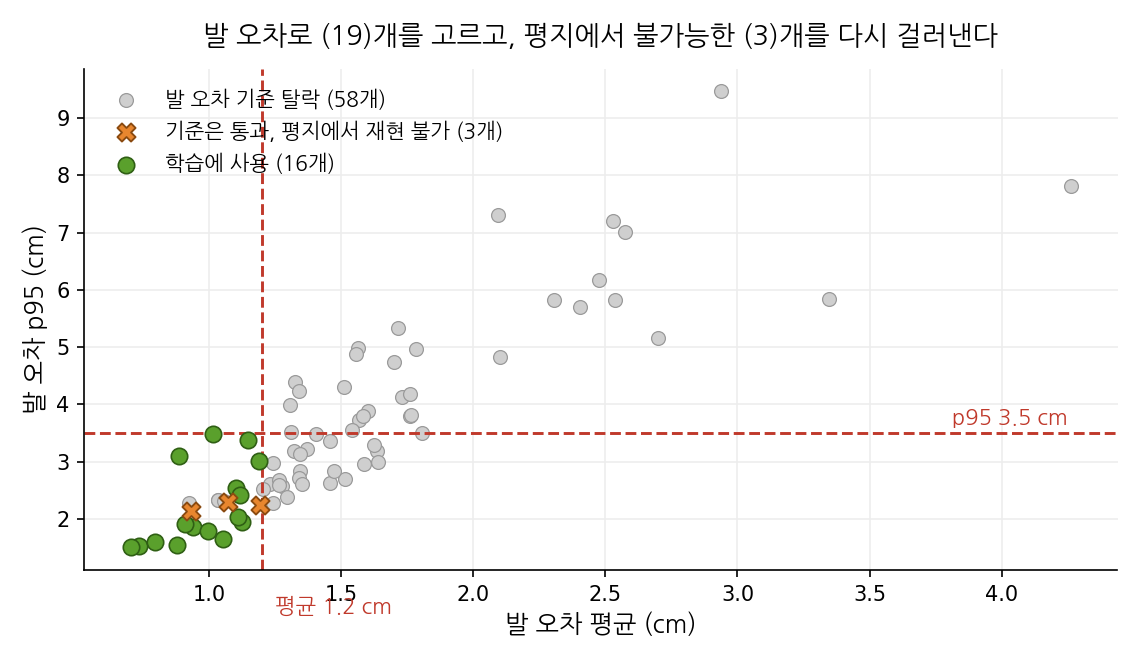
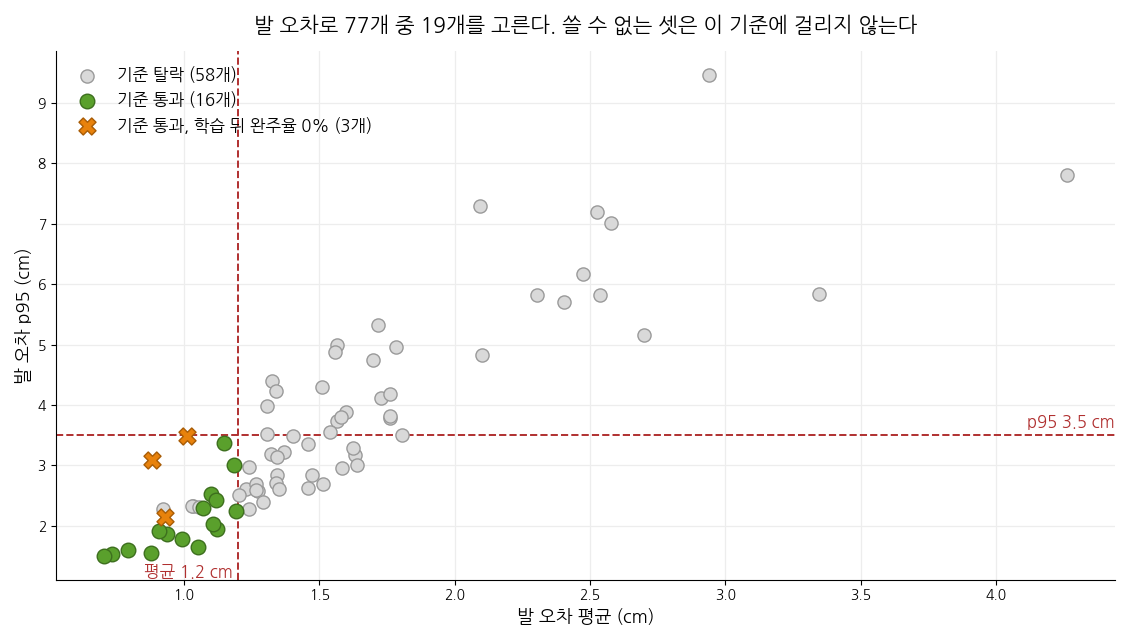
Show the selection criterion missing what it missed
The stage 3 figure titled itself "pick 19 by foot error, then filter out the 3
that are impossible on flat ground", and coloured those three as though the
criterion had rejected them. It did not reject them; they passed, were trained,
and only their zero completion rate gave them away. Drawn that way the figure
hid the one thing worth knowing about the filter.

They are now marked as what they are, sequences that passed and later completed
nothing, and they sit inside the passing cloud, which is the point: foot error
does not separate them. Ground penetration and airborne fraction do, and the
criterion looked at neither.

No generator for this figure existed, so it is added rather than hand-edited,
and it reads the same quality.csv that produced the selection.

diff --git a/scripts/make_stage3_figure.py b/scripts/make_stage3_figure.py
@@ -1,0 +1,80 @@
+"""3단계 그림을 그린다. 선별 기준이 무엇을 걸러내고 무엇을 놓쳤는지 보인다.
+
+    python scripts/make_stage3_figure.py --out docs/stage_3.png
+
+outputs/metrics/quality.csv 의 발 오차로 77개를 세 무리로 나눈다. 기준을
+통과한 19개 중 셋은 나중에 완주율 0% 로 드러났다. 그 셋을 따로 칠하는 이유는
+발 오차만으로는 다른 통과분과 구분되지 않기 때문이다 — 기준의 맹점이 그림에
+남아야 한다.
+"""
+
+import argparse
+import csv
+import os
+
+import matplotlib
+
+matplotlib.use("Agg")
+import matplotlib.font_manager as fm
+import matplotlib.pyplot as plt
+
+FONT = "/usr/share/fonts/truetype/nanum/NanumGothic.ttf"
+MEAN_MAX, P95_MAX, MAX_MAX = 1.2, 3.5, 10.0
+
+# 기준은 통과했지만 학습 뒤 완주율이 0% 였던 셋. 지면 관통과 공중 비율 때문이고
+# 선별 기준은 그 둘을 보지 않았다.
+UNUSABLE = {"obstacles2_subject1", "walk3_subject1", "walk3_subject4"}
+
+ROOT = os.path.dirname(os.path.dirname(os.path.abspath(__file__)))
+
+
+def main(csv_path, out):
+    fm.fontManager.addfont(FONT)
+    plt.rcParams["font.family"] = fm.FontProperties(fname=FONT).get_name()
+
+    rows = list(csv.DictReader(open(csv_path)))
+    passed, failed, bad = [], [], []
+    for r in rows:
+        pt = (float(r["feet_mean"]), float(r["feet_p95"]))
+        if (pt[0] < MEAN_MAX and pt[1] < P95_MAX and float(r["feet_max"]) < MAX_MAX):
+            (bad if r["seq"] in UNUSABLE else passed).append(pt)
+        else:
+            failed.append(pt)
+
+    fig, ax = plt.subplots(figsize=(11.3, 6.4), dpi=100)
+    for pts, color, edge, marker, size, label in [
+        (failed, "#d9d9d9", "#9a9a9a", "o", 90, f"기준 탈락 ({len(failed)}개)"),
+        (passed, "#5aa02c", "#3d6f1e", "o", 110, f"기준 통과 ({len(passed)}개)"),
+        (bad, "#e8820c", "#a85c05", "X", 150, f"기준 통과, 학습 뒤 완주율 0% ({len(bad)}개)"),
+    ]:
+        ax.scatter([p[0] for p in pts], [p[1] for p in pts], s=size, c=color,
+                   edgecolors=edge, linewidths=1.0, marker=marker, label=label, zorder=3)
+
+    ax.axvline(MEAN_MAX, color="#b03030", linestyle="--", linewidth=1.4, zorder=2)
+    ax.axhline(P95_MAX, color="#b03030", linestyle="--", linewidth=1.4, zorder=2)
+    ax.text(MEAN_MAX - 0.02, ax.get_ylim()[0], f"평균 {MEAN_MAX} cm", color="#b03030",
+            fontsize=12, ha="right", va="bottom")
+    ax.text(ax.get_xlim()[1], P95_MAX + 0.08, f"p95 {P95_MAX} cm", color="#b03030",
+            fontsize=12, ha="right", va="bottom")
+
+    ax.set_title("발 오차로 77개 중 19개를 고른다. 쓸 수 없는 셋은 이 기준에 걸리지 않는다",
+                 fontsize=15, pad=14)
+    ax.set_xlabel("발 오차 평균 (cm)", fontsize=13)
+    ax.set_ylabel("발 오차 p95 (cm)", fontsize=13)
+    ax.grid(True, color="#ededed", linewidth=0.9)
+    ax.set_axisbelow(True)
+    for s in ("top", "right"):
+        ax.spines[s].set_visible(False)
+    ax.legend(fontsize=12, loc="upper left", frameon=False)
+
+    fig.tight_layout()
+    fig.savefig(out, facecolor="white")
+    print(f"저장: {out}  탈락 {len(failed)} · 선별 {len(passed) + len(bad)} · 그중 못 쓴 것 {len(bad)}")
+
+
+if __name__ == "__main__":
+    p = argparse.ArgumentParser()
+    p.add_argument("--csv", default=os.path.join(ROOT, "outputs/metrics/quality.csv"))
+    p.add_argument("--out", default=os.path.join(ROOT, "docs/stage_3.png"))
+    a = p.parse_args()
+    main(a.csv, a.out)
